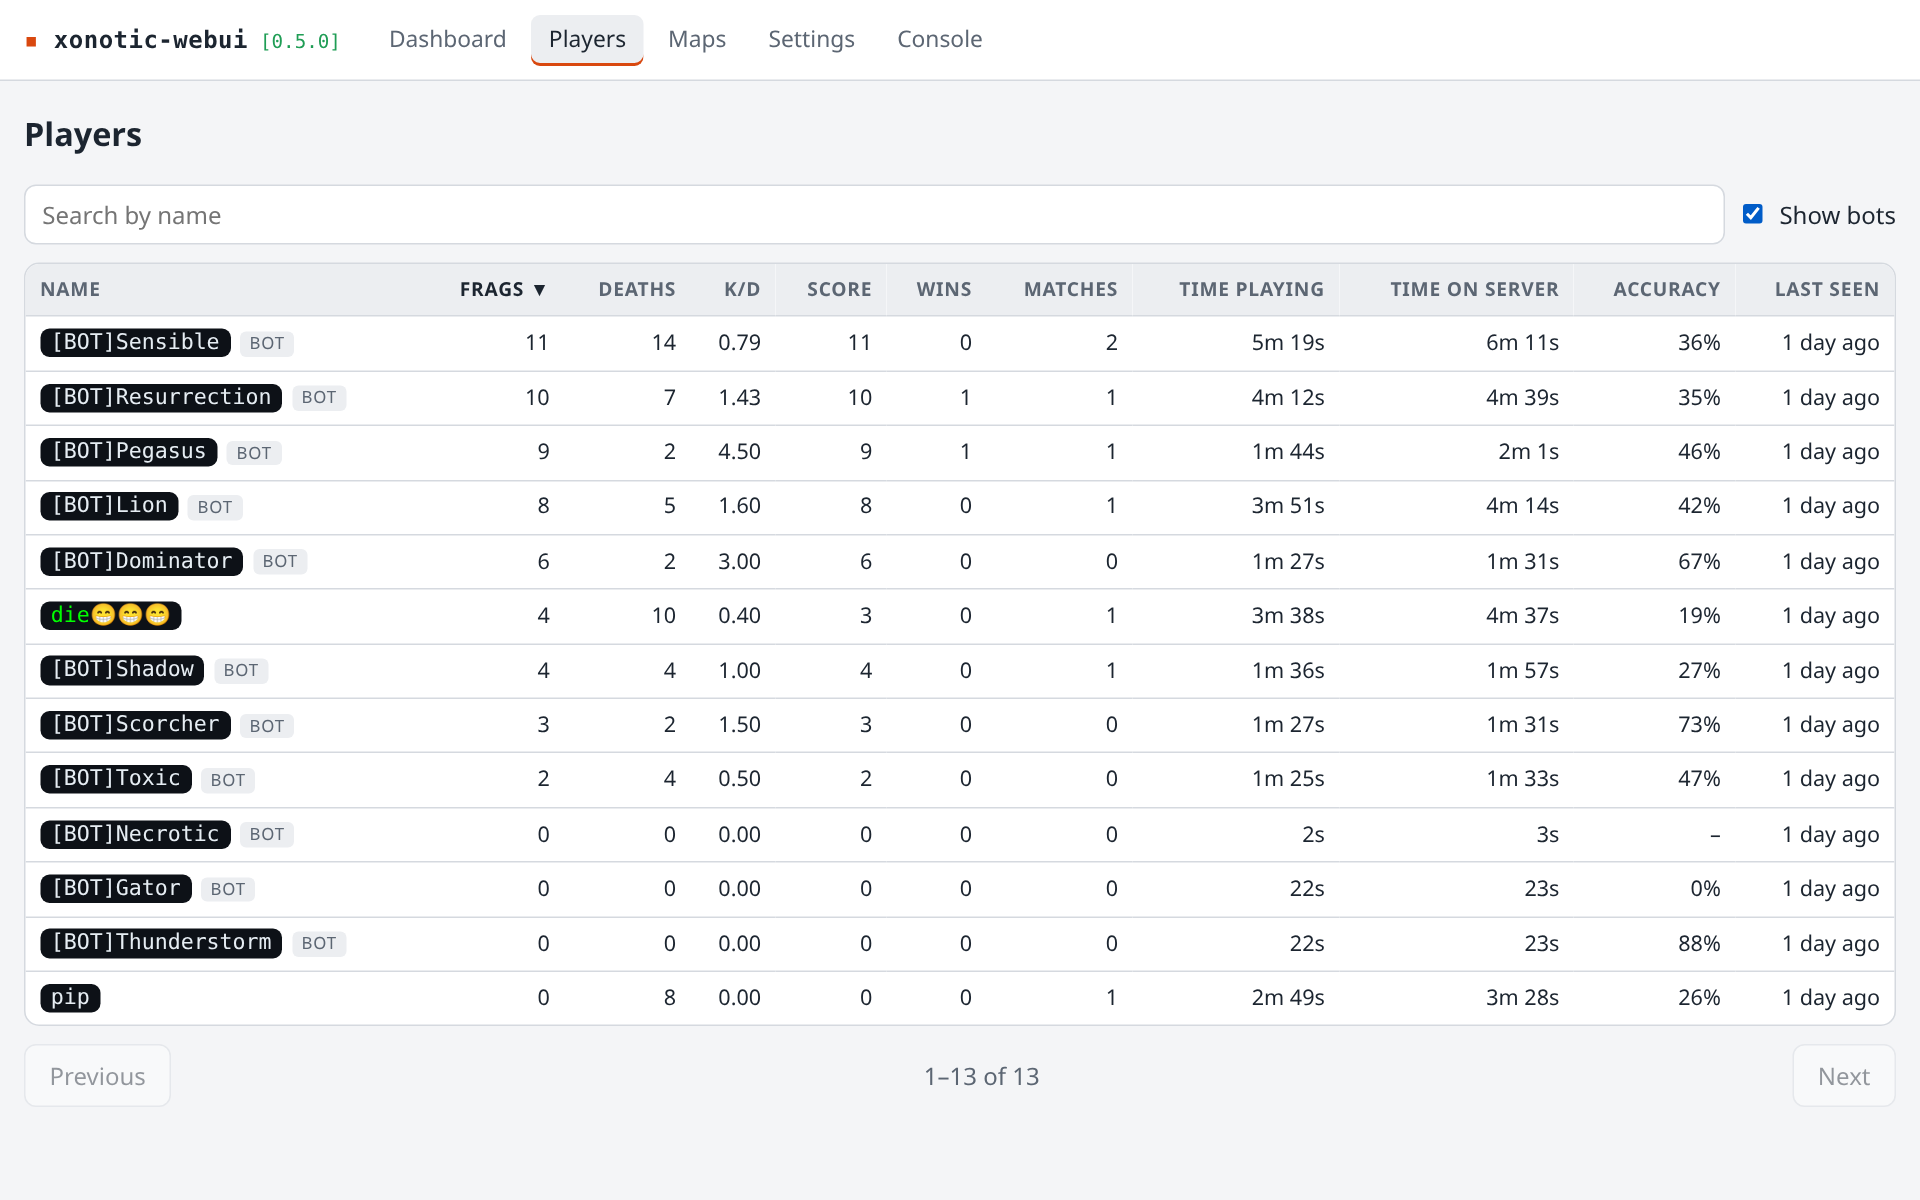
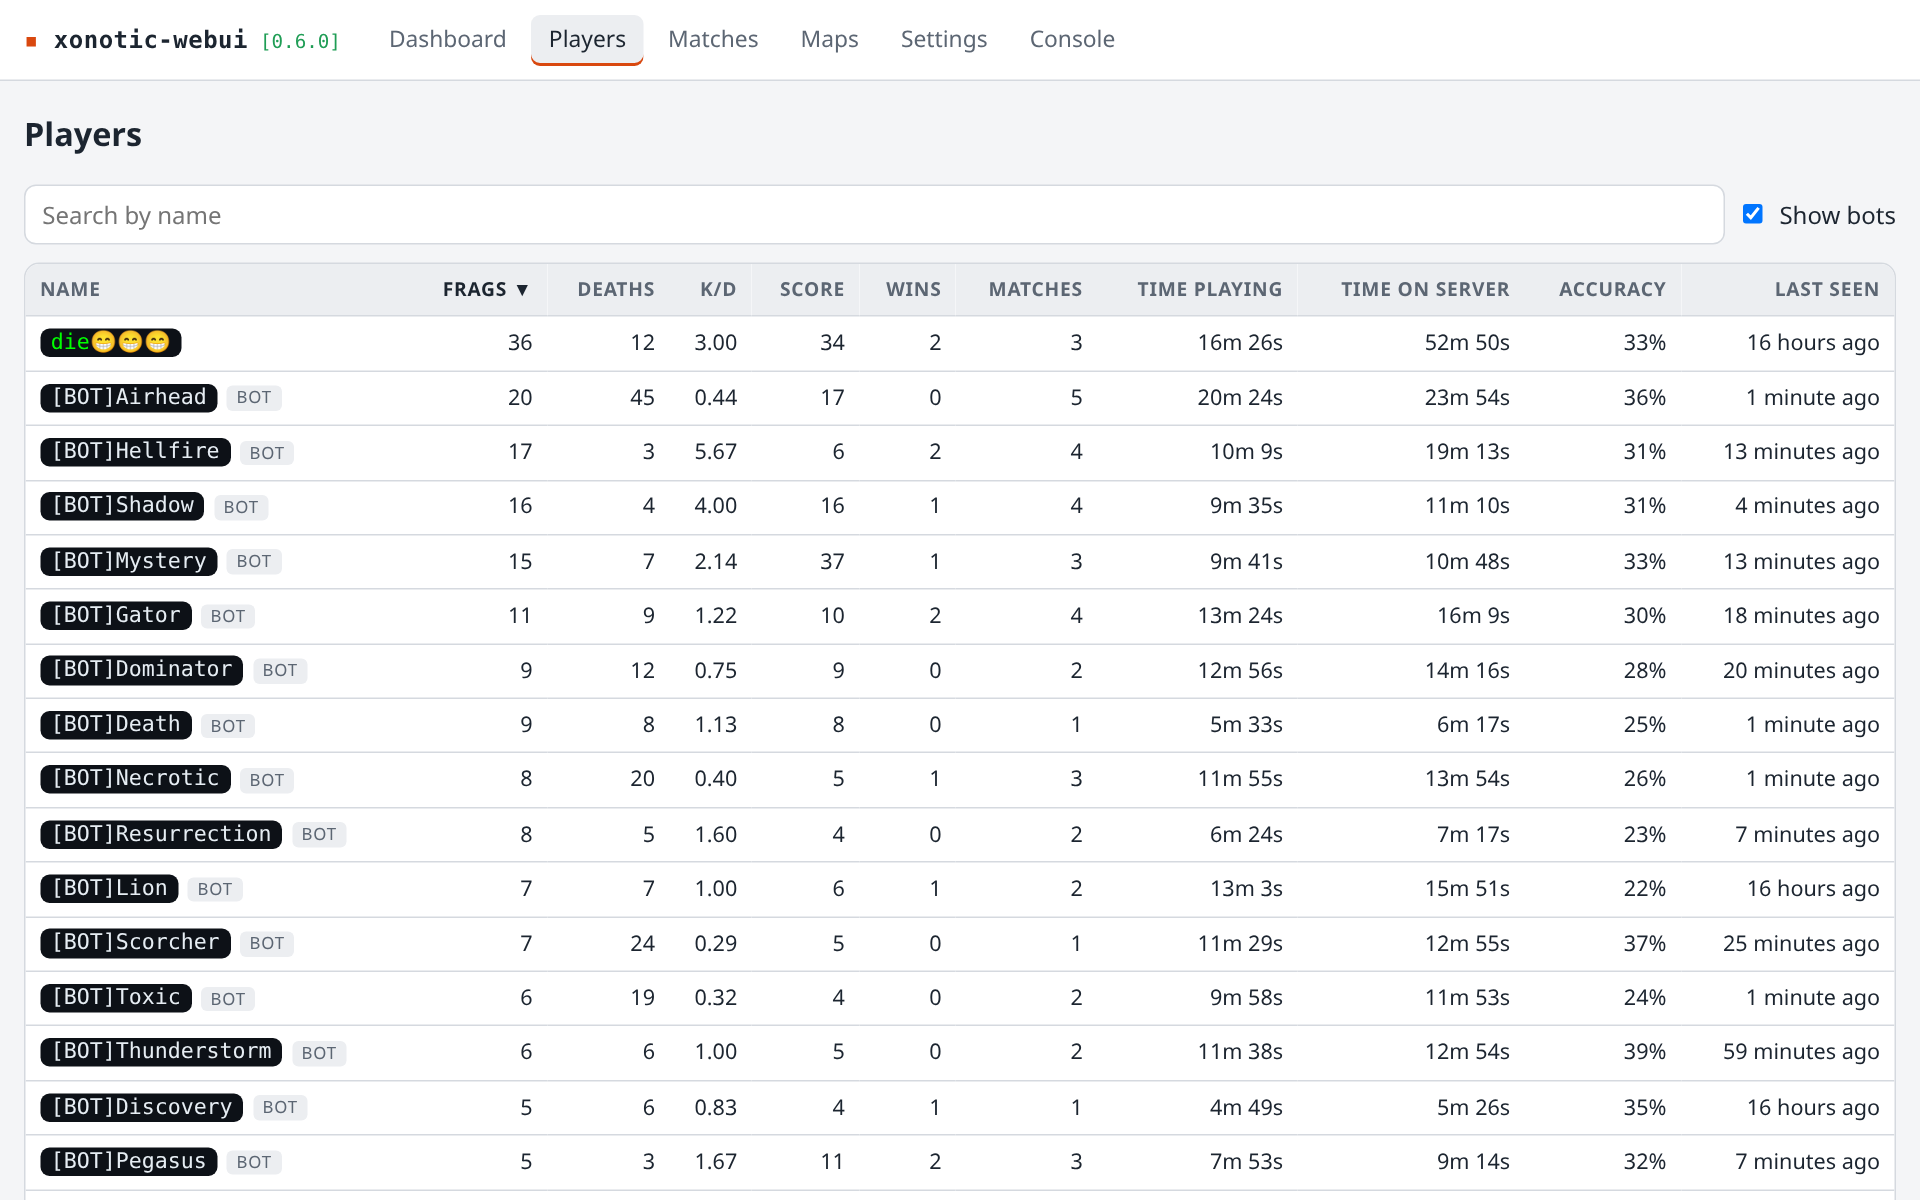
docs: retake the screenshots at 0.6.0 and add the Matches section
All nine are from a 0.6.0 panel on a real Xonotic 0.8.6 server with two human players
and bots, at 1280x800. Adds the match list and a team game's final scoreboard to the
README gallery and the guide.

diff --git a/docs/screenshots/README.md b/docs/screenshots/README.md
@@ -1,7 +1,7 @@
 # Screenshots
 
-The panel at v0.5.0 on a Xonotic 0.8.6 server, captured at 1280×800 (shown at 1.5×;
-`player-details.png` at 1280×1000). The matches are played by bots and two human players.
+The panel at v0.6.0 on a Xonotic 0.8.6 server, captured at 1280×800 (shown at 1.5×;
+`player-details.png` and `match-details.png` at 1280×1000). The matches are played by bots and two human players.
 
 | file | shows |
 | --- | --- |
@@ -9,6 +9,8 @@ The panel at v0.5.0 on a Xonotic 0.8.6 server, captured at 1280×800 (shown at 1
 | `dashboard-team-deathmatch.png` | the same in team deathmatch: each team's total in its colour above its players |
 | `players.png` | the Players section: the player history table, bots shown |
 | `player-details.png` | a player's details: names, key, totals and the per-weapon table |
+| `matches.png` | the Matches section: past matches newest first, with outcome, players, winner and the vs-bots tag |
+| `match-details.png` | a team deathmatch's final scoreboard, grouped under each team's total |
 | `maps-cards.png` | the Maps section: gametype, rotation and the installed maps as cards |
 | `maps-files.png` | the Maps section's Files view: one row per map with its package, size, plays and frags |
 | `settings.png` | the Settings section, Identity tab |

diff --git a/README.md b/README.md
@@ -19,6 +19,14 @@ service, built for a Proxmox LXC or any Debian 12/13 box on your LAN.
     <td align="center"><sub>Per-player stats and weapons</sub></td>
   </tr>
   <tr>
+    <td><img src="docs/screenshots/matches.png" alt="Match history" width="400"></td>
+    <td><img src="docs/screenshots/match-details.png" alt="A past match's final scoreboard" width="400"></td>
+  </tr>
+  <tr>
+    <td align="center"><sub>Match history</sub></td>
+    <td align="center"><sub>A match's final scoreboard</sub></td>
+  </tr>
+  <tr>
     <td><img src="docs/screenshots/dashboard-team-deathmatch.png" alt="Team deathmatch scoreboard" width="400"></td>
     <td><img src="docs/screenshots/maps-cards.png" alt="Maps" width="400"></td>
   </tr>

diff --git a/docs/guide.md b/docs/guide.md
@@ -399,6 +399,10 @@ match that ends appears without a reload, and it keeps your filters and page.
 - **Storage.** A match keeps about 10 to 20 small rows per player. History is kept forever
   like the rest, so a busy server's file grows by a few tens of megabytes per 10,000 matches.
 
+![The Matches section: past matches newest first, with outcome, players, winner and the vs-bots tag](screenshots/matches.png)
+
+![A team deathmatch's final scoreboard, grouped under each team's total](screenshots/match-details.png)
+
 The same data is served at `GET /api/matches` (filtered with `map`, `gametype`, `player`,
 `vs_bots`, `limit` and `offset`; the answer has an ETag) and `GET /api/matches/{id}`.
 
